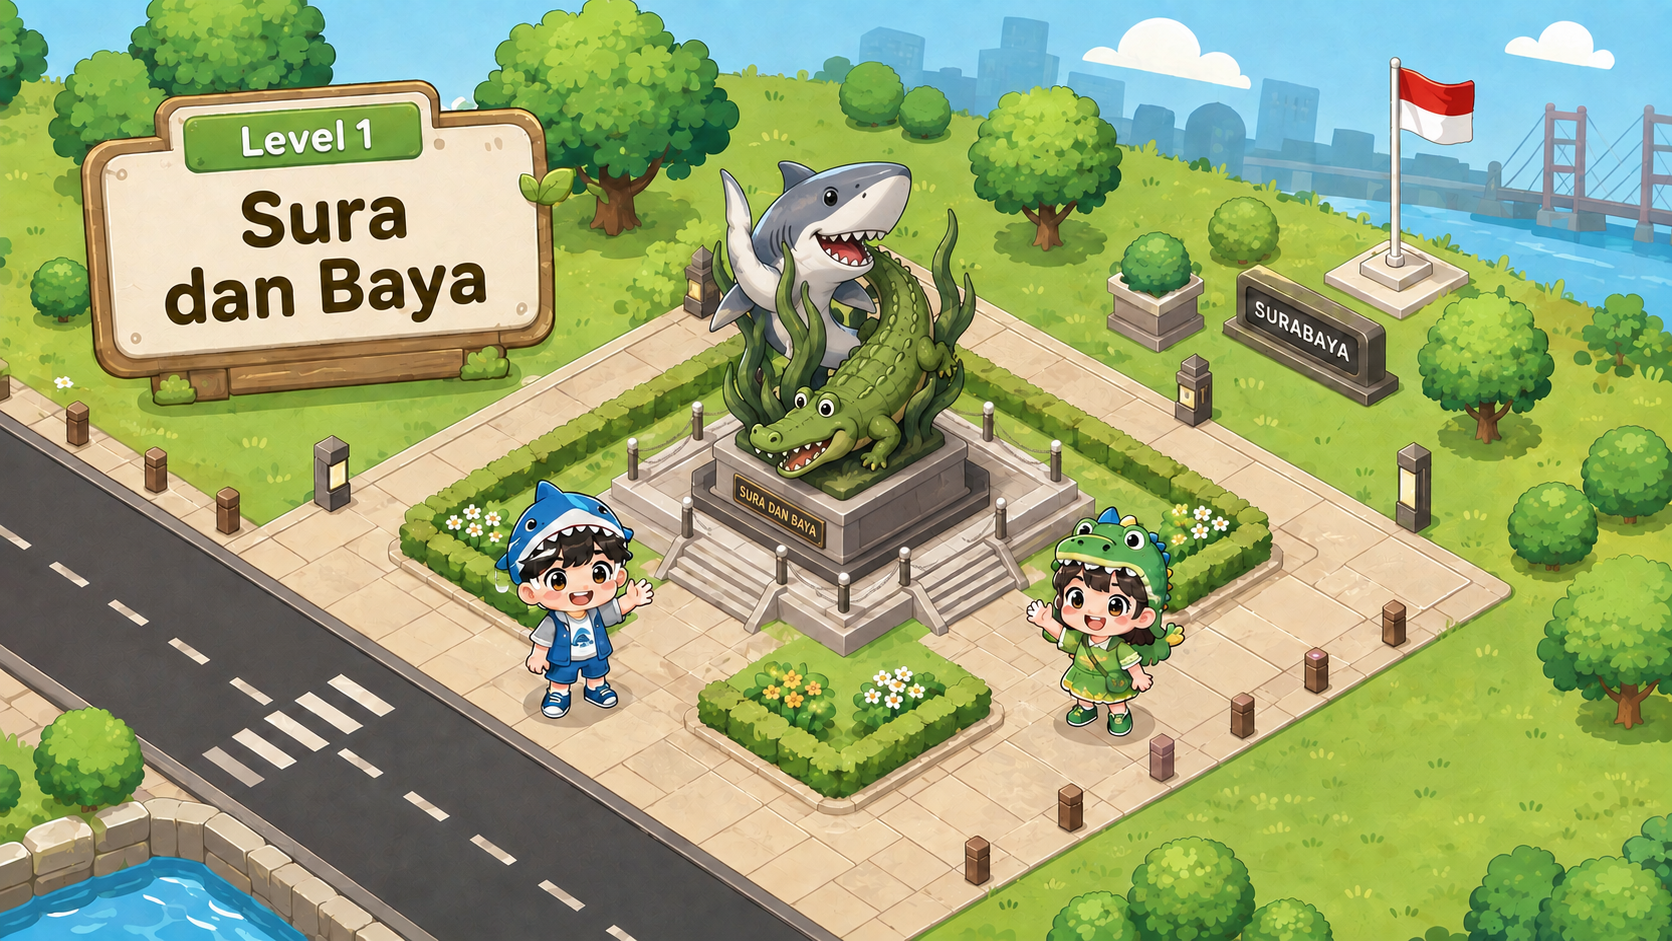
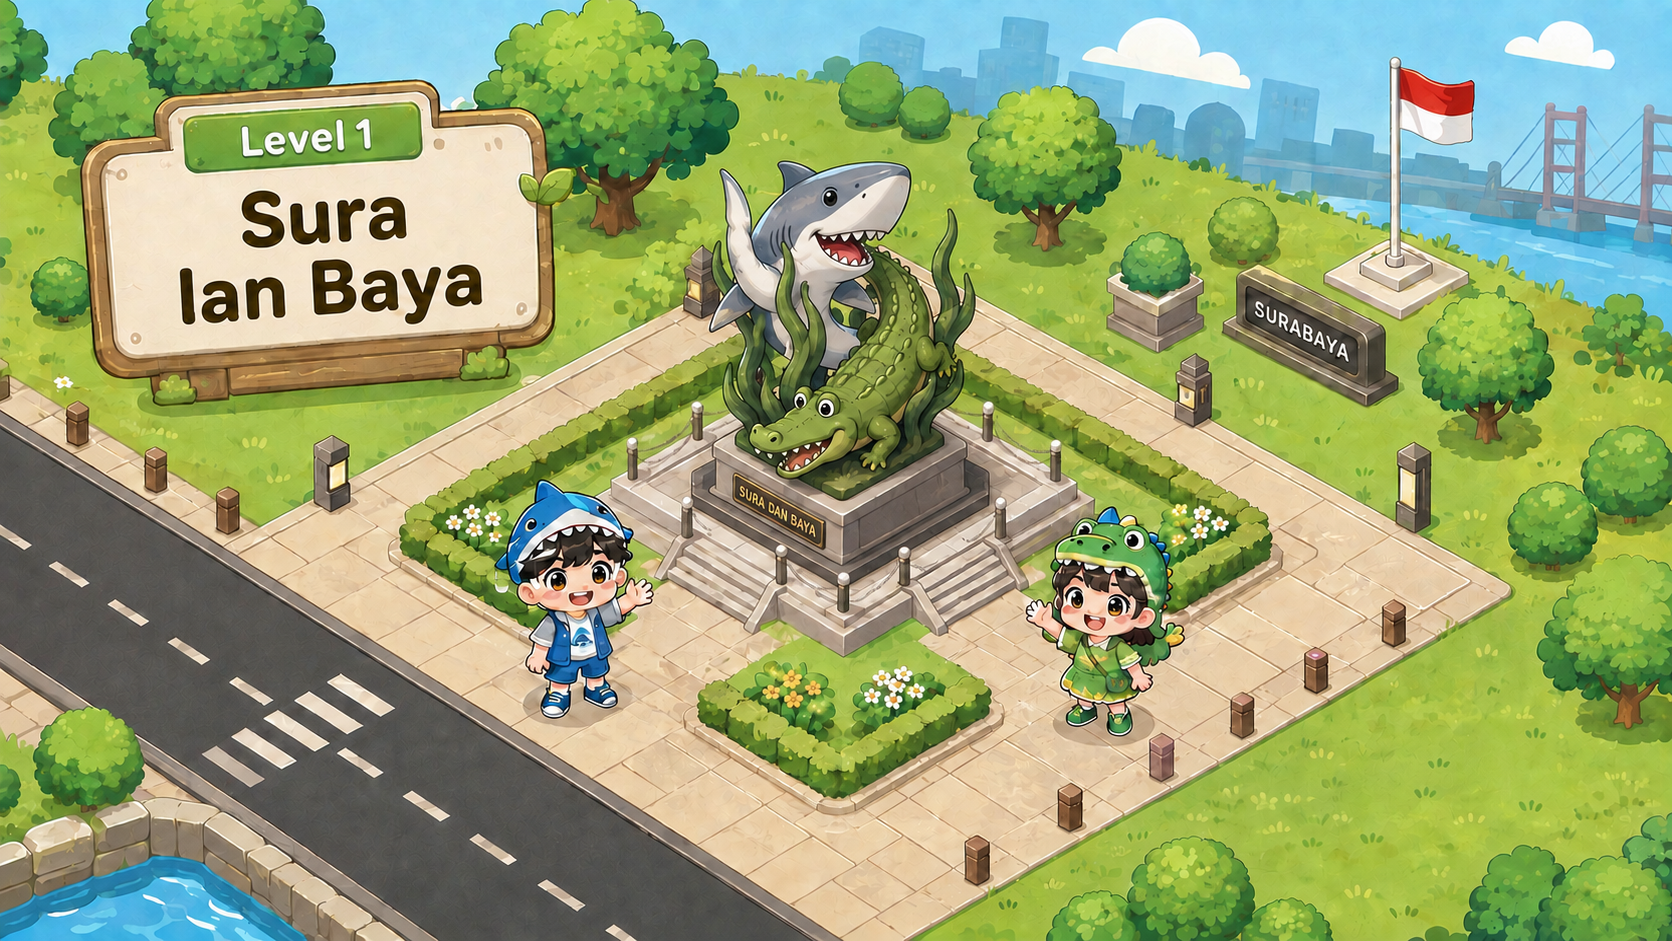
memperbaiki kata dan kalimat

diff --git a/src/pages/GamePage.jsx b/src/pages/GamePage.jsx
@@ -1872,7 +1872,7 @@ function ZepGameOnlyScreen() {
           <div className="mt-3">
             <p className="text-xs font-black uppercase tracking-[0.18em] text-[#087f8c]">Pituduh Ekspedisi</p>
             <p className="mx-auto mt-2 max-w-2xl text-sm font-bold leading-relaxed text-[#6b4428]">
-              Gunakake jeneng peserta kanthi format <strong>Nama_Kelas_Absen</strong>. Saben tombol misi bakal mbukak arena ZEP ing tab anyar.
+              Gunakake jeneng peserta kanthi format <strong>Nama_Kelas_Absen</strong>. Saben tombol misi bakal mbukak arena <i>ZEP</i> ing tab anyar.
               Rampungake kanthi urut saka Sambung Parikan, Rakit Parikan, banjur Pujangga Muda.
             </p>
           </div>

diff --git a/src/pages/MateriDetailPage.jsx b/src/pages/MateriDetailPage.jsx
@@ -409,7 +409,7 @@ function MateriEnrichment({ enrichment }) {
             </div>
             <div>
               <p className="text-xs font-black uppercase tracking-[0.15em] text-orange-500">
-                Titik Penting
+                Titik wigati
               </p>
               <h2 className="text-lg font-black leading-tight text-[#3f2918]">
                 Sing kudu dielingi
